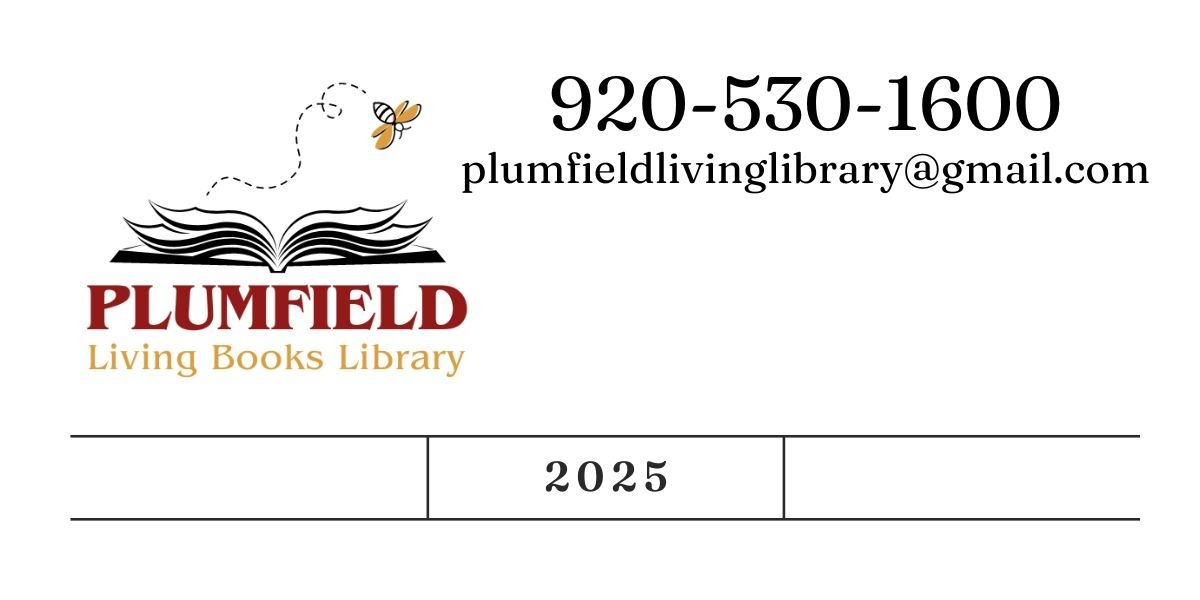
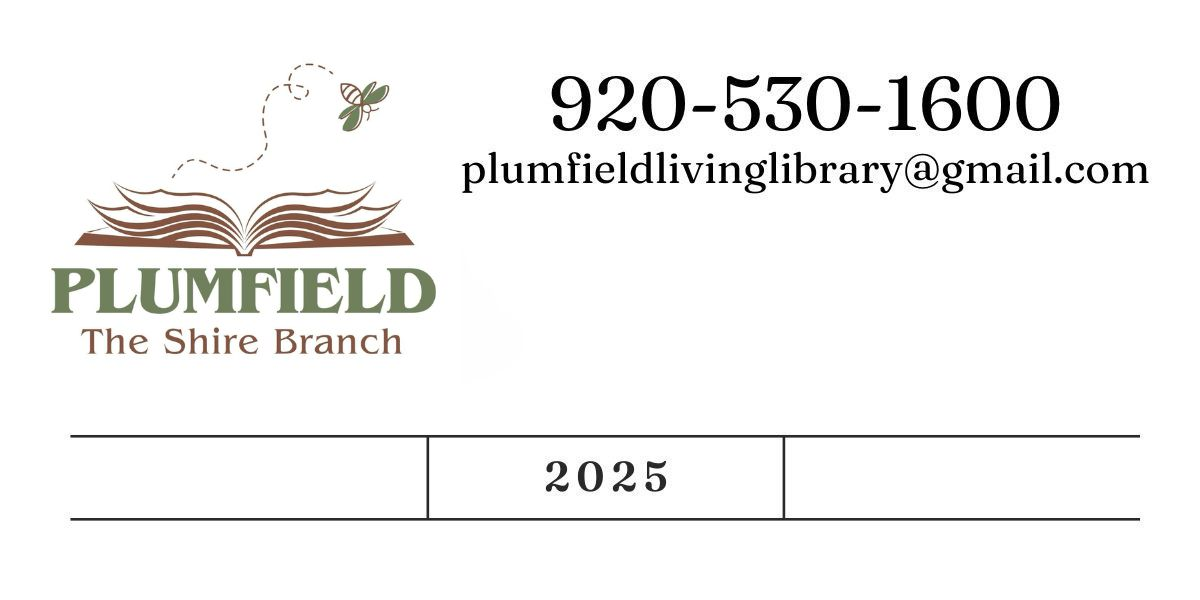
Added new image for shire and updated prefix logic

diff --git a/index.html b/index.html
@@ -38,20 +38,33 @@
   padding: 0.4rem;
   margin: 0.5rem 0;
 }
+details{
+  margin-bottom: 1rem;
+  padding: 1rem;
+  background-color: #f9f9f9;
+  border: 1px solid #ccc;
+  border-radius: 5px;
+  font-size: 1rem;
+}
   </style>
 </head>
 <body>
 
 <h1>Plumfield Library Barcode Generator</h1>
   <p>This generator creates barcodes for our library stickers using the Libib coding system.</p>
-<ul>
+
+<details>
+  <summary>Prefix (advanced)</summary>
+  <ul>
   <li>Main (Main collection): 111</li>
   <li>Shire (Main collection): 121</li>
 </ul>
 <label>Prefix:</label><br>
 <input type="text" id="prefix" value="111" maxlength="3" pattern="\d{3}">
 <br><br>
-
+  <p>Enter a 3-digit prefix for the barcode. The default is 111 for Main and 121 for Shire.</p>
+  <p>NOTE: only change this if you know what you are doing!!!</p>
+</details>
 <label>Start Number:</label><br>
 <input type="number" id="startNumber" min="1">
 <br><br>
@@ -65,6 +78,7 @@
   <option value="shire">Shire</option>
 </select>
 <br><br>
+
 
 <button onclick="generateBulk()">Generate Barcodes</button>
 <button onclick="saveAll()">Save All as ZIP</button>
@@ -251,6 +265,10 @@ async function savePDF() {
 
   doc.save("barcodes-labels.pdf");
 }
+// Set branch select listener to update prefix automatically
+document.getElementById('branch').addEventListener('change', function () {
+  document.getElementById('prefix').value = this.value === 'shire' ? '121' : '111';
+});
 </script>
 
 </body>
